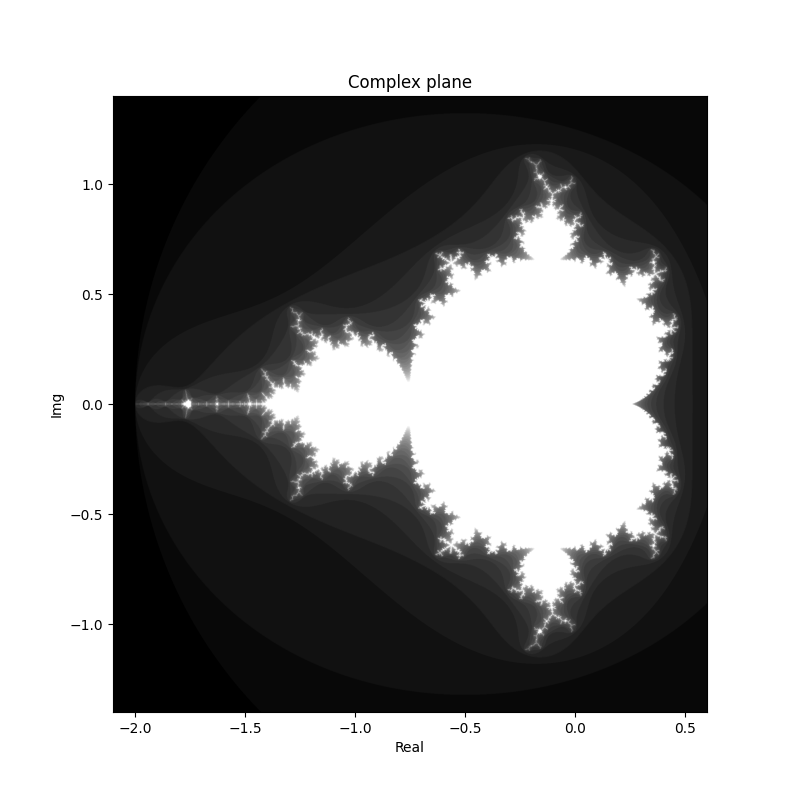
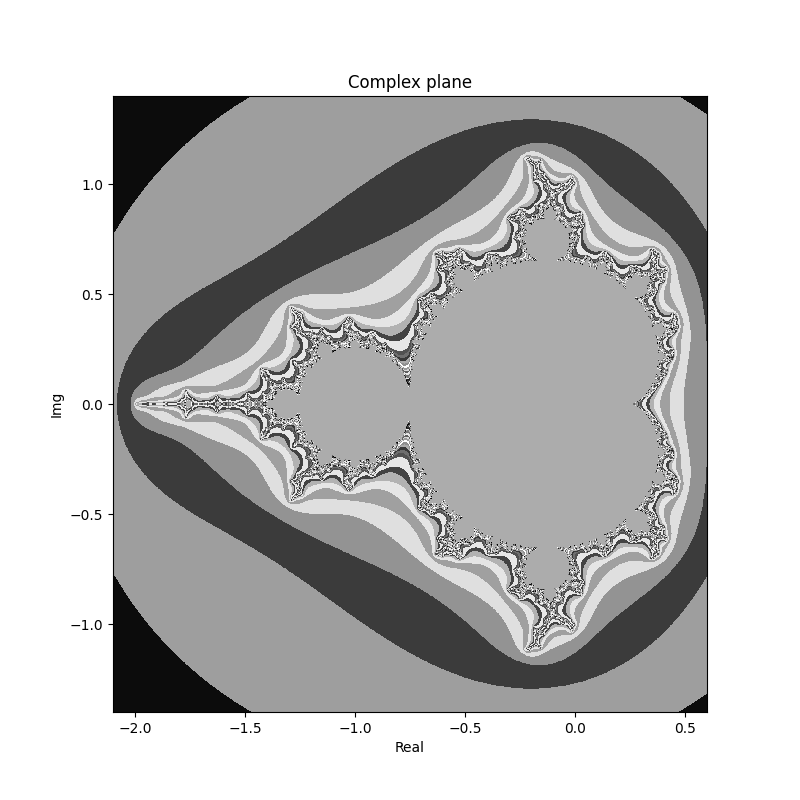
Update fractal.

diff --git a/Fractal/fractal.py b/Fractal/fractal.py
@@ -1,12 +1,17 @@
 import numpy as np
 import matplotlib.pyplot as plt
+import cv2 as cv
 
 class JuliaSet:
-    def __init__(self, c, colored):
+    def __init__(self, c, sampling_num, val_bound, iter_bound, colored):
+        self.sampling_num = sampling_num
+        self.val_bound = val_bound
+        self.iter_bound = iter_bound
         self.c = c
         self.colored = colored
+        self.COLORS = [np.random.choice(range(256), size=3) for i in range(self.iter_bound+1)]
 
-    def iter_at_divergence(self, p0, val_bound, iter_bound):
+    def iter_at_divergence(self, p0):
         '''
             z=z^2+c until divergence or not condition
             c fixed
@@ -14,30 +19,31 @@ class JuliaSet:
         z = p0 #Succession start at complex specified
         i=0 #Iteration
 
-        while i<iter_bound and abs(z) < val_bound:
+        while i<self.iter_bound and abs(z) < self.val_bound:
             z = z**2 + self.c
             i+=1
 
-        return i
+        return self.COLORS[i]
 
-    def plot(self, sampling_num, val_bound, iter_bound, start_x, end_x, start_y, end_y):
-        img = np.full((sampling_num, sampling_num),0)
-        x_samples = np.linspace(start_x, end_x, sampling_num)
-        y_samples = np.linspace(start_y, end_y, sampling_num)
+    def plot(self, start_x, end_x, start_y, end_y):
+        img = np.full((self.sampling_num, self.sampling_num, 3),0)
+        x_samples = np.linspace(start_x, end_x, self.sampling_num)
+        y_samples = np.linspace(start_y, end_y, self.sampling_num)
 
-        for i in range(sampling_num):
-            for j in range(sampling_num):
-                img[j][i] = self.iter_at_divergence(complex(x_samples[i], y_samples[j]),
-                                                    val_bound,
-                                                    iter_bound)
+        for i in range(self.sampling_num):
+            for j in range(self.sampling_num):
+                img[j][i] = self.iter_at_divergence(complex(x_samples[i], y_samples[j]))
 
         fig = plt.figure('Mandelbrot fractal', figsize=[8,8])
 
         if self.colored:
             plt.imshow(img, extent=[start_x,end_x,start_y,end_y])
         else:
-            plt.imshow(img, extent=[start_x,end_x,start_y,end_y], cmap='gray')
-
+            plt.imshow(img[:,:,1], 
+                       cmap='gray', 
+                       interpolation='none', 
+                       extent=[start_x,end_x,start_y,end_y])
+        
         plt.title('Complex plane')
         plt.xlabel('Real')
         plt.ylabel('Img')
@@ -45,10 +51,14 @@ class JuliaSet:
         fig.savefig('julia_set.png')
 
 class MandelbrotSet:
-    def __init__(self, colored):
-        self.colored = colored 
+    def __init__(self, sampling_num, val_bound, iter_bound, colored=True):
+        self.sampling_num = sampling_num
+        self.val_bound = val_bound
+        self.iter_bound = iter_bound
+        self.colored = colored
+        self.COLORS = [np.random.choice(range(256), size=3) for i in range(self.iter_bound+1)]
 
-    def iter_at_divergence(self, c, val_bound, iter_bound):
+    def iter_at_divergence(self, c):
         '''
         Return the iteration in which diverges
         z=z^2+c until divergence or maximum iterations reached
@@ -56,30 +66,31 @@ class MandelbrotSet:
         z = c #Succession start
         i=0 #Iteration
 
-        while i<iter_bound and abs(z) < val_bound:
+        while i < self.iter_bound and abs(z) < self.val_bound:
             z = z**2 + c
             i+=1
 
-        return i
+        return self.COLORS[i]
 
-    def plot(self, sampling_num, val_bound, iter_bound, start_x, end_x, start_y, end_y):
-        img = np.full((sampling_num, sampling_num),0)
-        x_samples = np.linspace(start_x, end_x, sampling_num)
-        y_samples = np.linspace(start_y, end_y, sampling_num)
+    def plot(self, start_x, end_x, start_y, end_y):
+        img = np.full((self.sampling_num, self.sampling_num, 3),0)
+        x_samples = np.linspace(start_x, end_x, self.sampling_num)
+        y_samples = np.linspace(start_y, end_y, self.sampling_num)
 
-        for i in range(sampling_num):
-            for j in range(sampling_num):
-                img[j][i] = self.iter_at_divergence(complex(x_samples[i], y_samples[j]), 
-                                                    val_bound,
-                                                    iter_bound)
+        for i in range(self.sampling_num):
+            for j in range(self.sampling_num):
+                img[j][i] = self.iter_at_divergence(complex(x_samples[i], y_samples[j]))
 
         fig = plt.figure('Mandelbrot fractal', figsize=[8,8])
 
         if self.colored:
             plt.imshow(img, extent=[start_x,end_x,start_y,end_y])
         else:
-            plt.imshow(img, extent=[start_x,end_x,start_y,end_y], cmap='gray')
-
+            plt.imshow(img[:,:,1], 
+                       cmap='gray', 
+                       interpolation='none', 
+                       extent=[start_x,end_x,start_y,end_y])
+        
         plt.title('Complex plane')
         plt.xlabel('Real')
         plt.ylabel('Img')
@@ -88,9 +99,10 @@ class MandelbrotSet:
 
 
 if __name__=='__main__':
-    colored = True
+    colored = False
     
-    m = MandelbrotSet(colored)
-    m.plot(2000, 2, 30, -2.1, 0.6, -1.4, 1.4)
-    j = JuliaSet(complex(0.2,0.6), colored)
-    j.plot(2000, 4, 30, -2, 2, -2, 2)
+    m = MandelbrotSet(2000, 3, 40, colored)
+    m.plot(-2.1, 0.6, -1.4, 1.4)
+    #m.plot(-1.48, -1.42, -0.02, 0.02)
+    j = JuliaSet(complex(0.2,0.6), 2000, 3, 30, colored)
+    j.plot(-2, 2, -2, 2)
